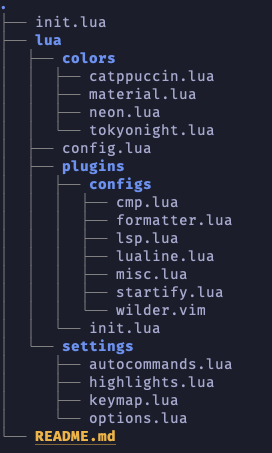
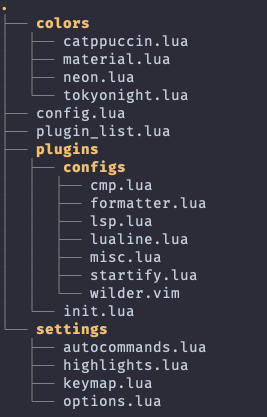
New plugins are now added to plugin_list.

Changed region(s): [[0.0899, 0.0312, 0.8689, 0.9976], [0.0, 0.0, 0.0899, 0.9664]]

diff --git a/nvim/README.md b/nvim/README.md
@@ -25,8 +25,7 @@ modified.
 ![folder structure](file_tree.png)
 
 `lua/plugins/init.lua` starts packer and loads all external plugins  and
-their configurations, if you want to add a new plugin you will have to it
-here. Plugin configurations are all in the `lua/plugins/configs` folder.
+their configurations.  Plugin configurations are all in the `lua/plugins/configs` folder.
 More complex plugins have their own config files, but there is also a
 `misc.lua` that contains the configuration for all of those plugins that
 have more trivial configs or I'm testing out and don't feel like making a
@@ -40,6 +39,13 @@ In `lua/settings` we have the configuration for:
 
 Finally, `lua/colors/` contains the configuration for the colorschemes that
 you have installed.
+
+## Adding plugins
+New plugins are to be added on `lua/plugin_list.lua`. Each element of the
+`plugin` table will be passed to a packer `use` statement. As discussed
+above configurations for plugins can be either put into a separate folder in
+the `lua/plugins/configs` folder or you can just extend the `misc.lua` file
+also on that folder.
 
 ## Adding a colorscheme
 The colorscheme field on the `lua/config.lua` file is actually interpolated
